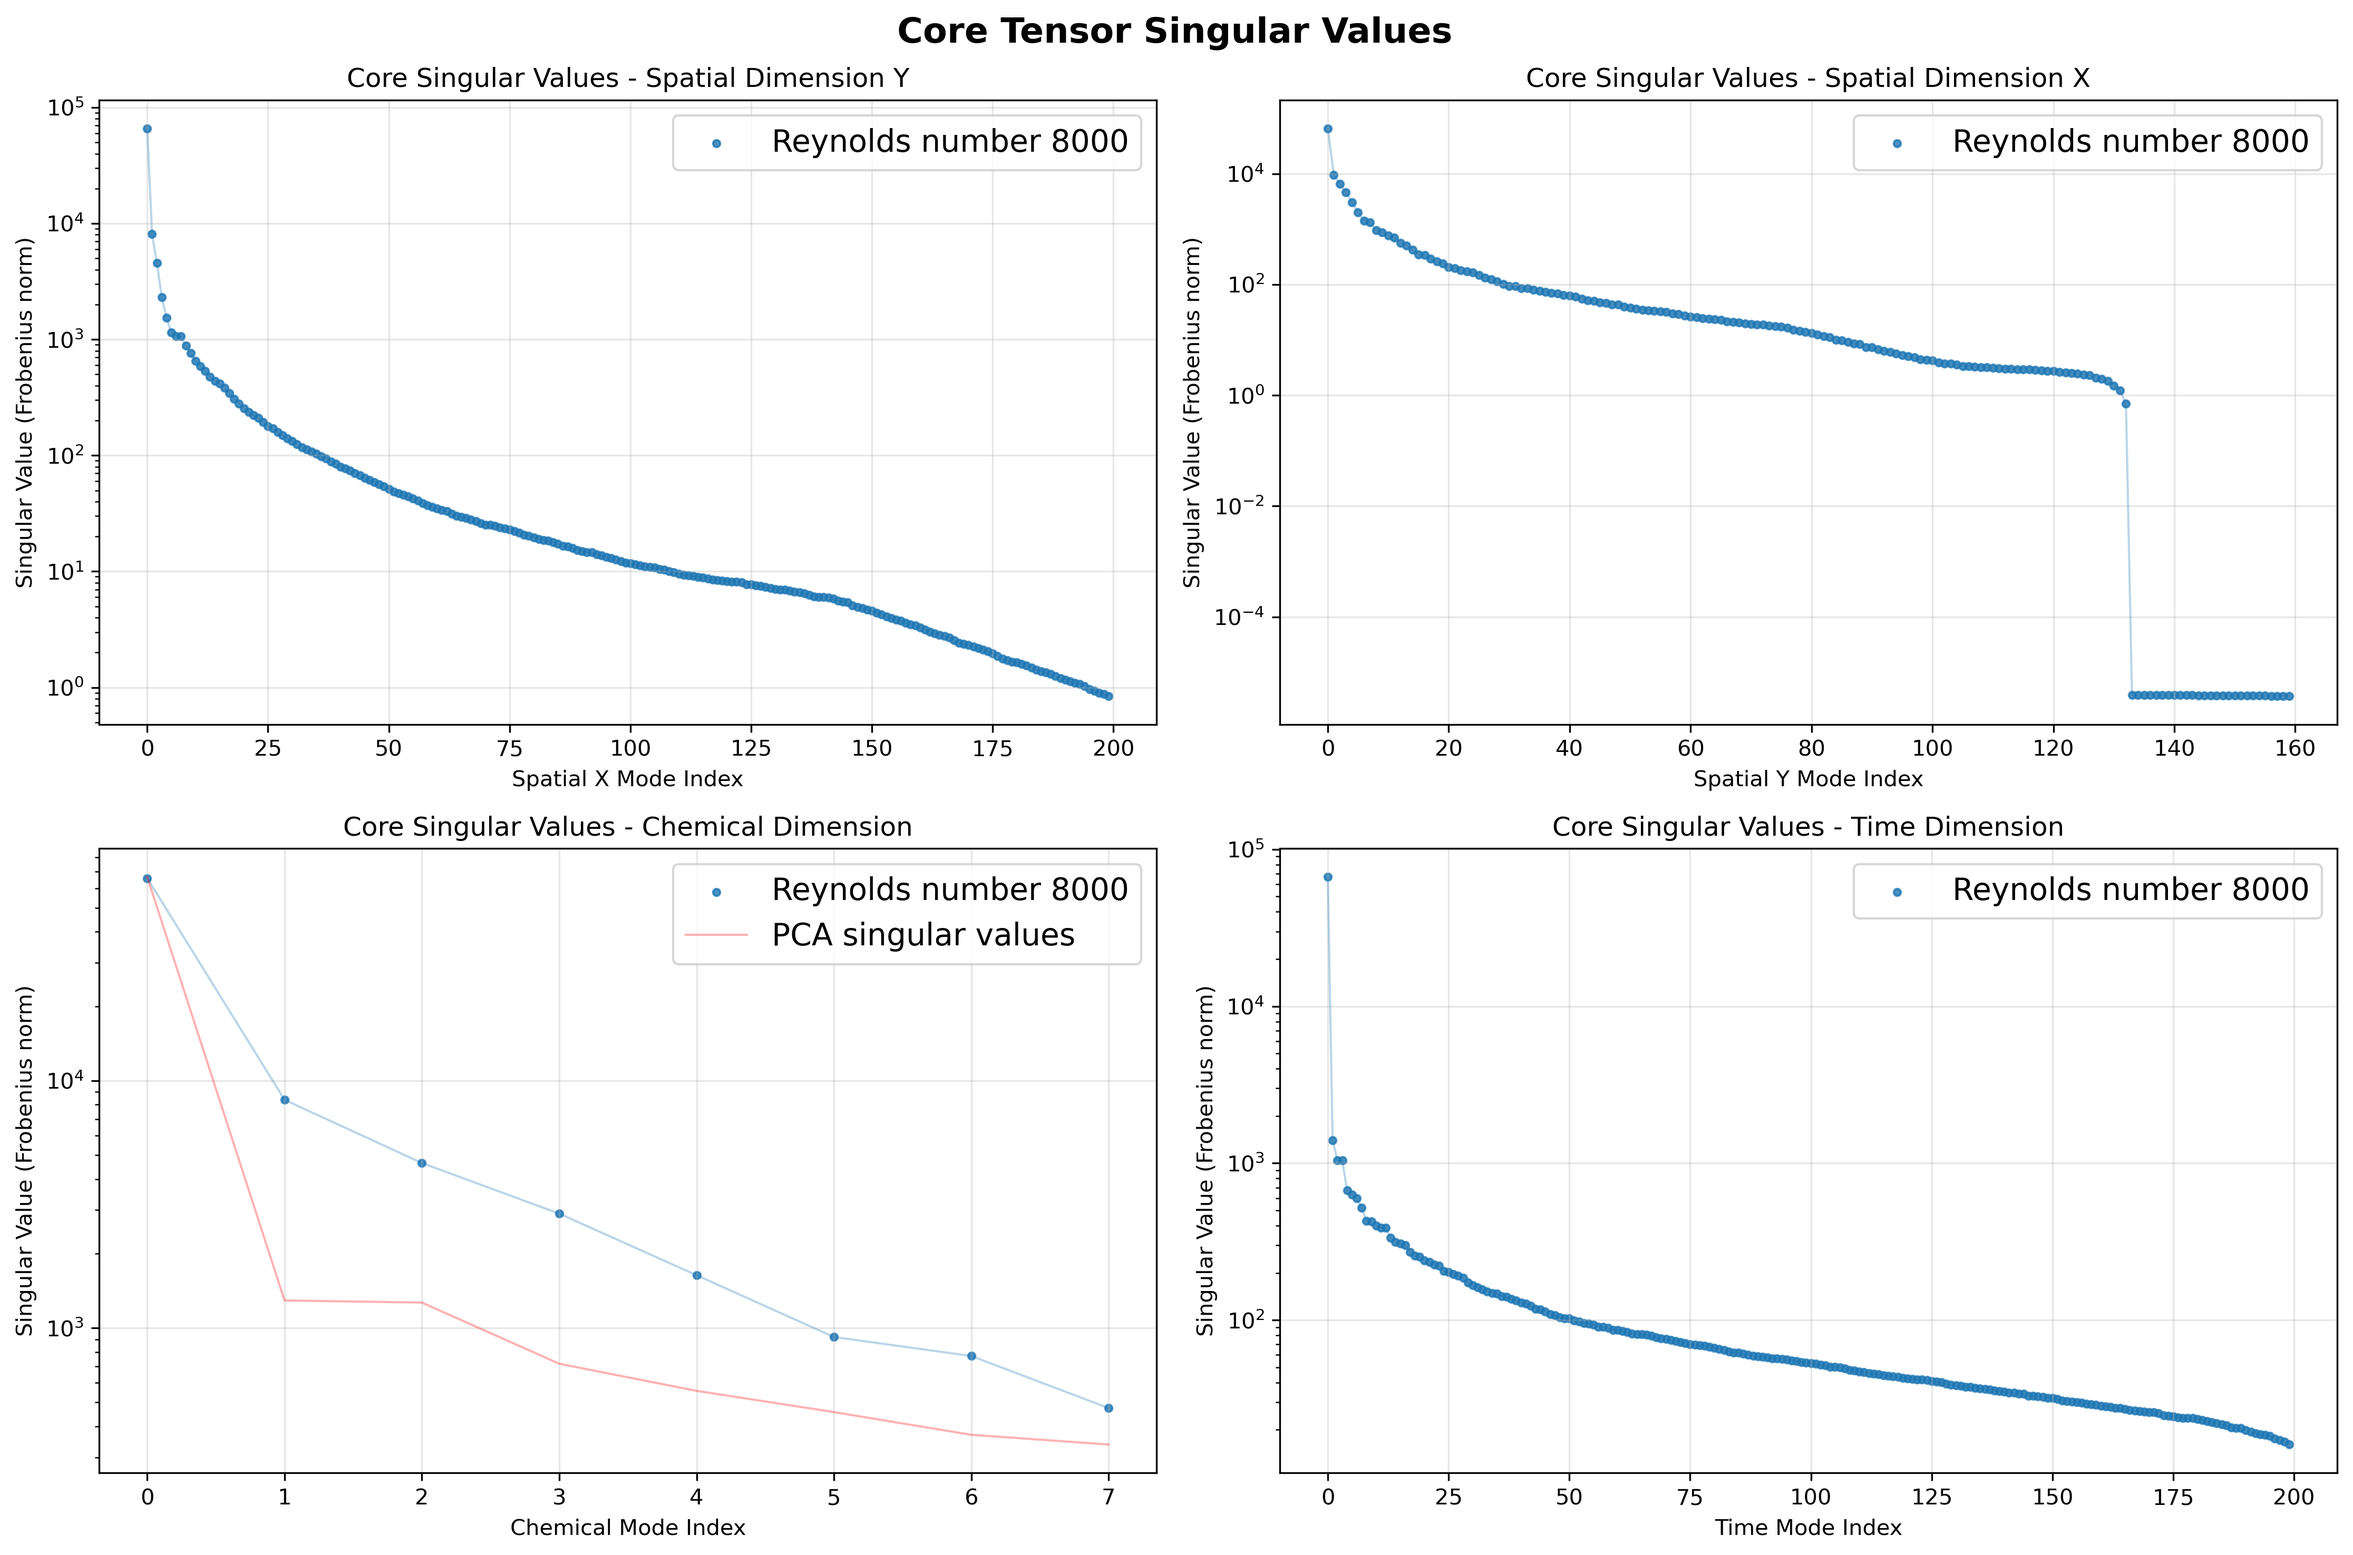
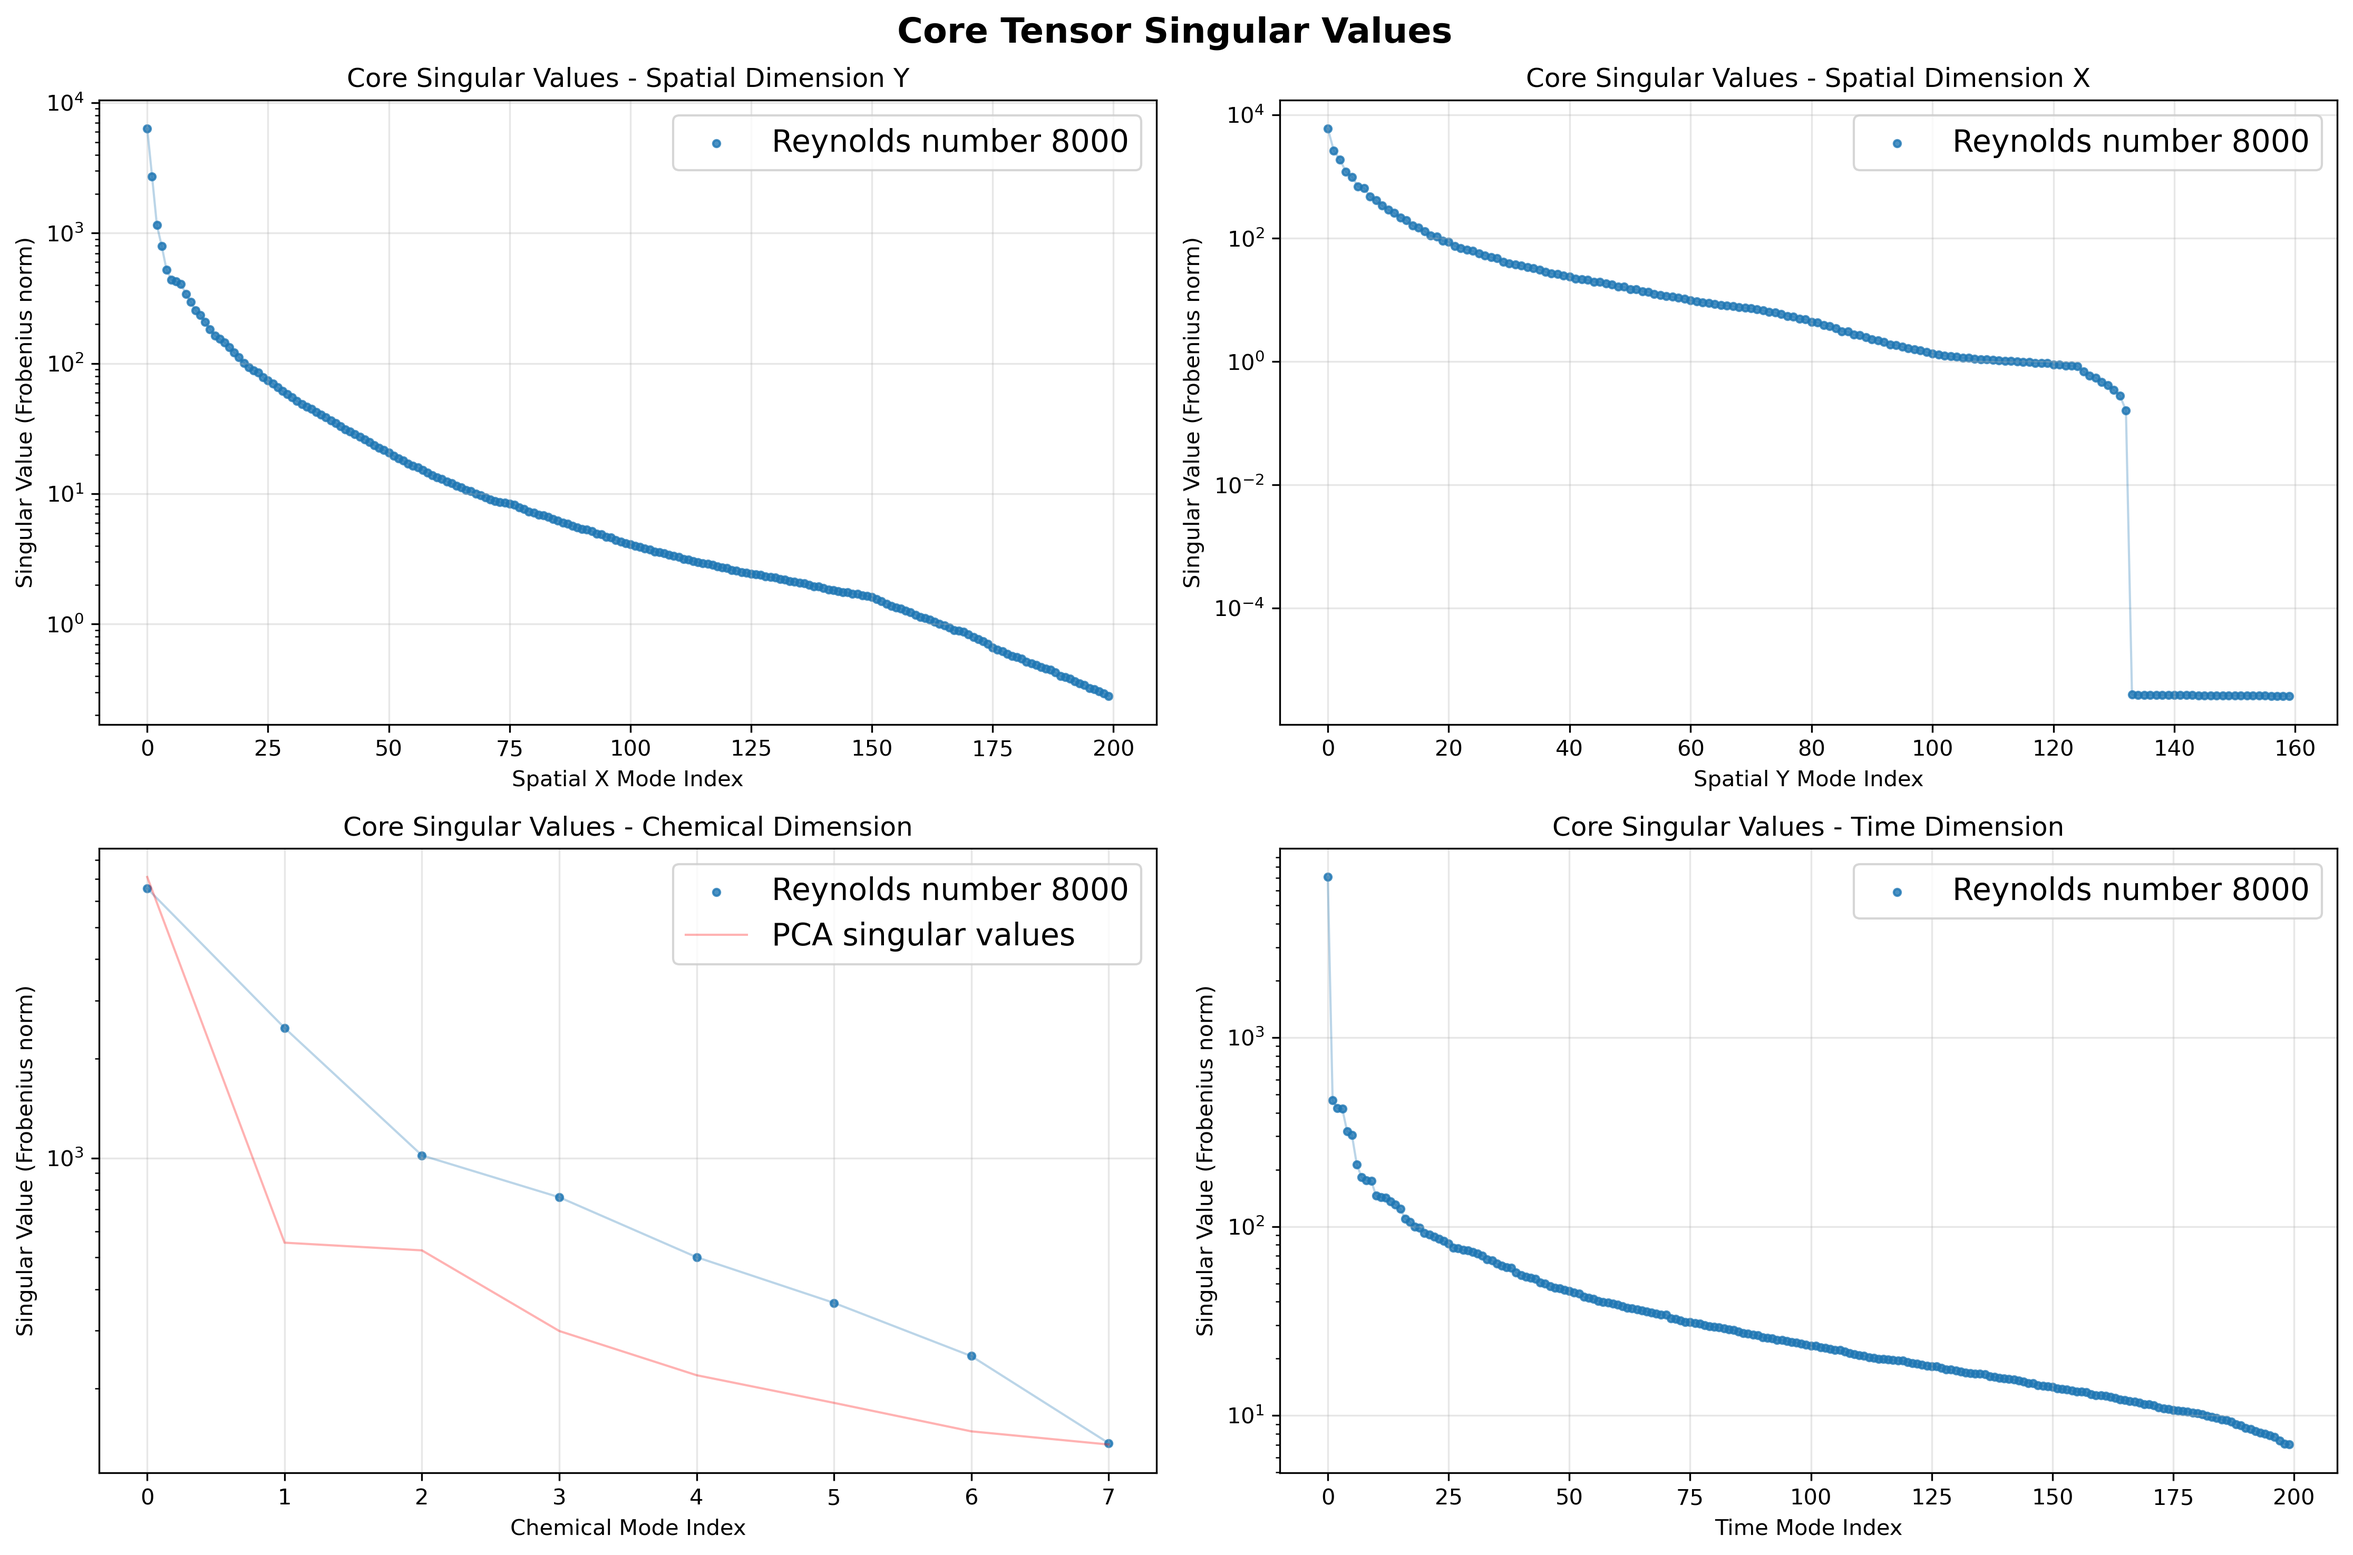
Gif containing qualitative modes comparison between two methods
Paragone fra i modi PCA e quelli HOSVD

diff --git a/README.md b/README.md
@@ -7,10 +7,10 @@ The focus of the work is now comparing HOSVD to PCA in combustion. The methodolo
 2.  Define a preprocessing pipeline justitying all the choices made (almost done)
 3.  Perform classical PCA on the reshaped tensor (x * y * time, number of chemical species) (almost done)
 4.  Check the results of classical PCA with Parente 
-5.  Perform HOSVD and if necessary HOOI (HOPCA)
-6.  Check the results of HOSVD (HOOI/HOPCA)
+5.  Perform HOSVD and if necessary HOOI (HOPCA) (done)
+6.  Check the results of HOSVD (HOOI/HOPCA) (done)
 7.  Compare the results quantitatively -> reconstruction errors
-8.  Compare the resutls qualitatively -> do the PC mean something in both cases?
+8.  Compare the resutls qualitatively -> do the PC mean something in both cases? (almost done)
 9.  Draw some conclusions
 10. Run everything for real on CESVIMA
 11. Write the paper (this needs to be done while the code runs)
@@ -128,9 +128,19 @@ The HOSVD decomposition achieves excellent reconstruction accuracy:
 
 The core tensor singular values reveal the importance of each mode across different dimensions:
 
-![HOSVD Core Tensor Singular Values](README_PLOTS/hosvd_core_vals.png)
+![HOSVD Core Tensor Singular Values ](README_PLOTS/hosvd_core_vals.png)
+**CORE ** HOSVD core tensor singular values across spatial, chemical, and temporal modes.
 
 - **Spatial Dimensions (X and Y)**: Show rapid decay, indicating that spatial patterns can be captured with relatively few modes
 - **Chemical Dimension**: This is the term of comparison (qua c'e' la ciccia, ma e' tardi e lo faccio domani)
 - **Time Dimension**: Shows distinct temporal mode importance, with the first few modes capturing most of the temporal dynamics
+
+
+## (8.) Visual comparison between modes
+
+Although this point is not in exaclty rigorous yet, I think it is worth putting here to maybe get some feedback (speram). Although as per the above picture the information contained in the PCs is more than the one contained in the chemical modes of HOSVD, the HOSVD actually rapresent chemical species. PCs are just ficticious artifacts for compression, whereas HOSVD are interpretable and rooted in physical and chemical variation in modes.
+
+![PCA vs HOSVD modes dynamics](README_PLOTS/pca_vs_hosvd_comparison.gif)
+
+The PCA modes do not retain any spatial or temporal coherence. HOSVD on the other hand recovers structures which spatial and temporal modes are fully intact due to the fact that the truncation is performed only in chemical species
 
